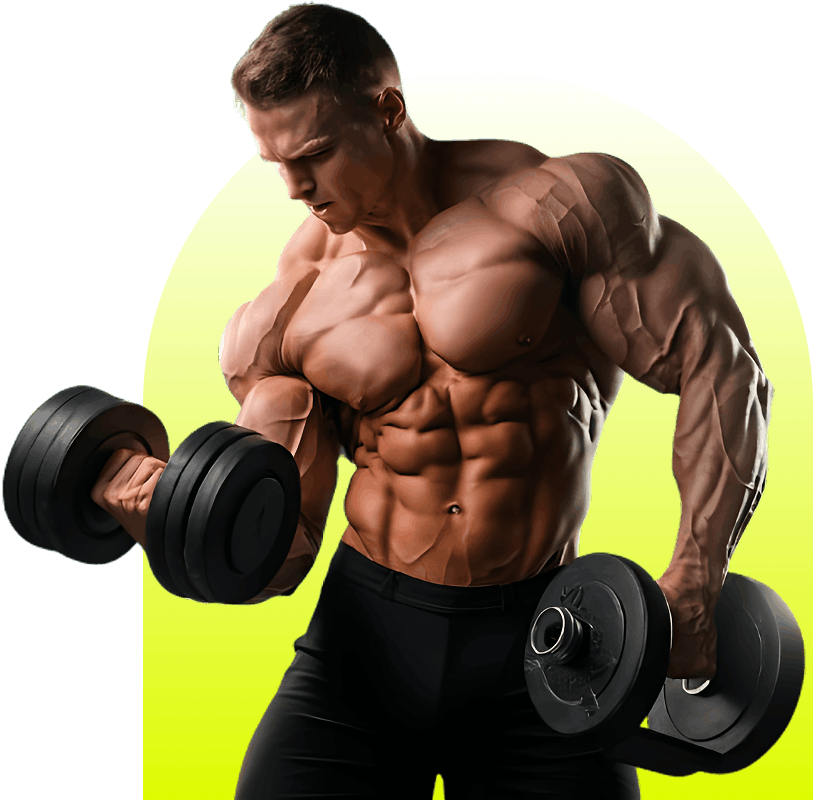
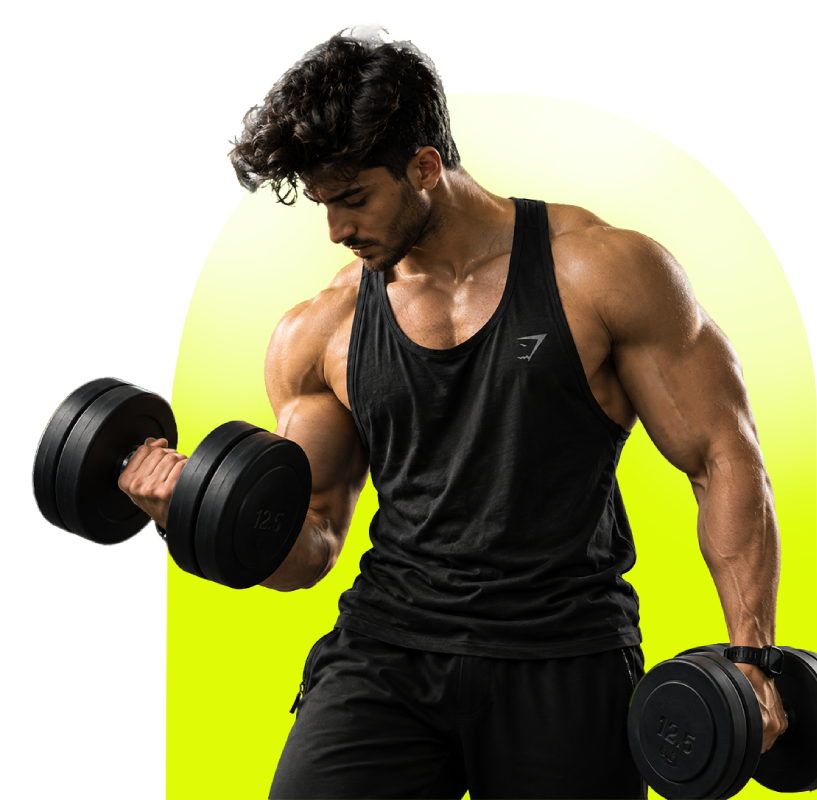
hero updates

diff --git a/app/page.tsx b/app/page.tsx
@@ -28,7 +28,7 @@ export default function Home() {
                     <div className="text-bg text-anime">Elevate Your Journey</div>
                     <div className="left">
                         <div className="text h4 mb-30 wow fadeInUp">we are dedicated to helping you achieve your fitness goals in a safe, motivating environment for men and women alike.</div>
-                        <a href="contact" className="tf-btn flex-shrink-0 text-uppercase wow fadeInUp" data-wow-delay=".1s">Visit Us Today</a>
+                        <Link href="contact" className="tf-btn flex-shrink-0 text-uppercase wow fadeInUp" data-wow-delay=".1s">Visit Us Today</Link>
                         <div className="text h4 mb-20 wow fadeInUp" data-wow-delay=".2s">the only premium fitness center in the region</div>
                         <div className="list-text wow fadeInUp" data-wow-delay=".3s">
                             <div className="text-item">Cardio</div>

diff --git a/public/css/styles.css b/public/css/styles.css
@@ -6573,7 +6573,7 @@ form.form-search-siderbar .tf-btn-search i {
   padding: 0 0 70px 68px;
 }
 .section-hero-2 .left .tf-btn {
-  margin-bottom: 70px;
+  margin-bottom: 30px;
 }
 .section-hero-2 .image {
   width: 46.2%;

diff --git a/public/scss/_sections.scss b/public/scss/_sections.scss
@@ -495,7 +495,7 @@
         width: 26.1811%;
         padding: 0 0 70px 68px;
         .tf-btn {
-            margin-bottom: 70px;
+            margin-bottom: 30px;
         }
     }
     .image {
